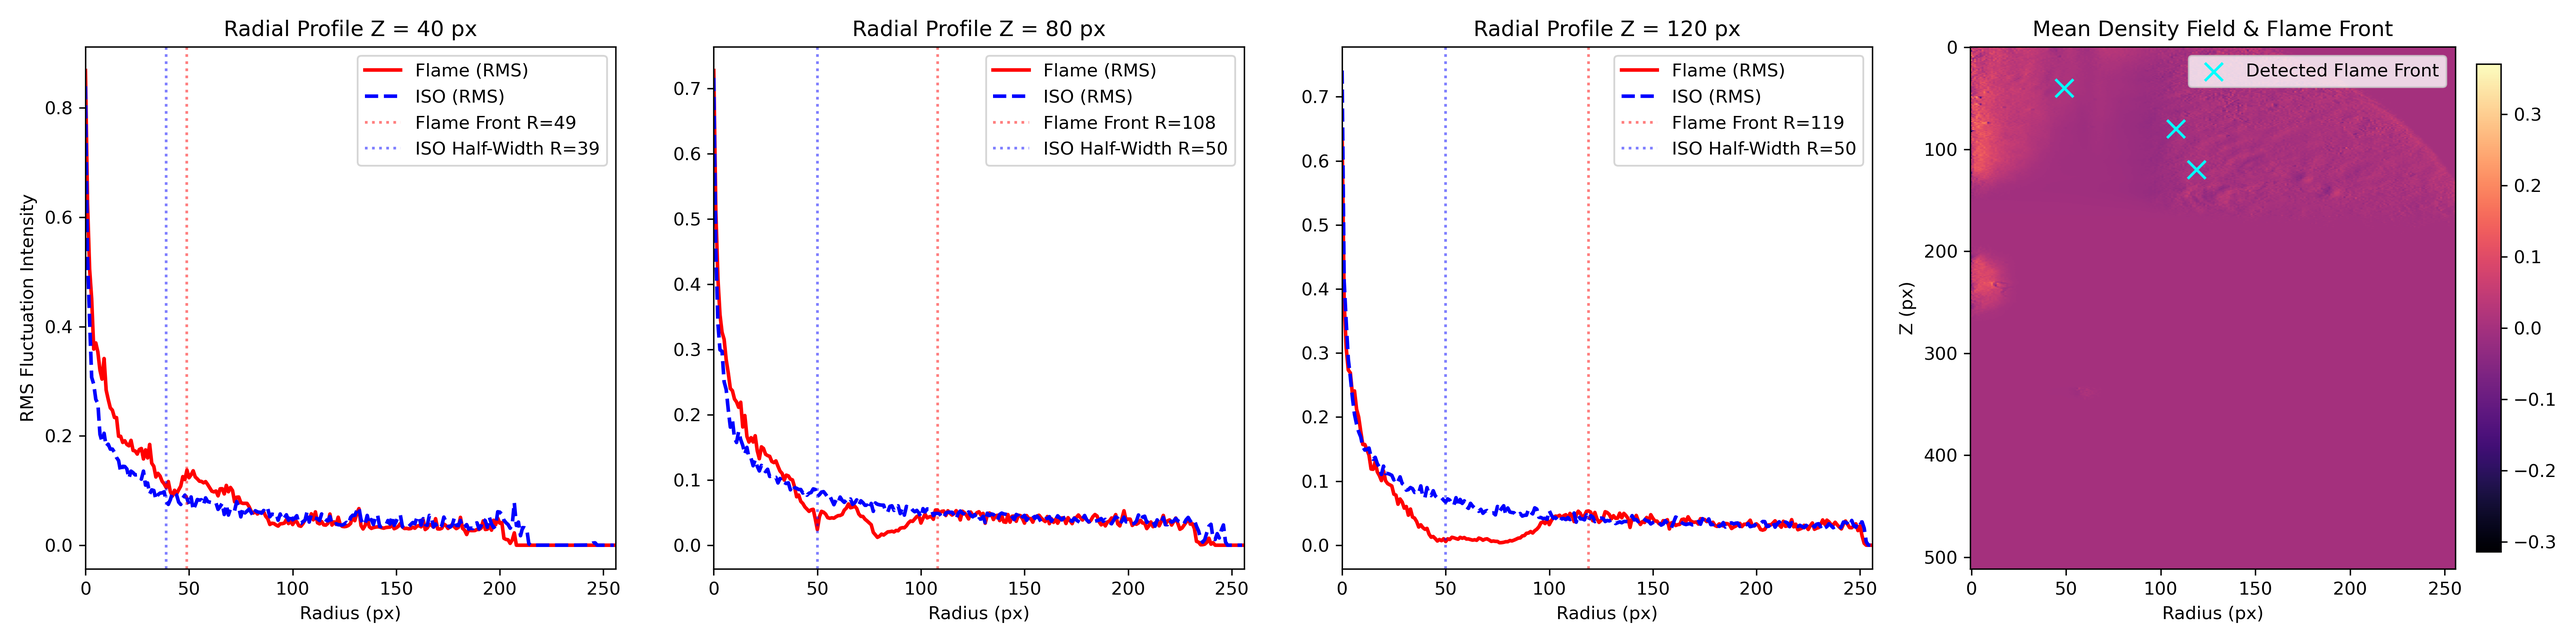
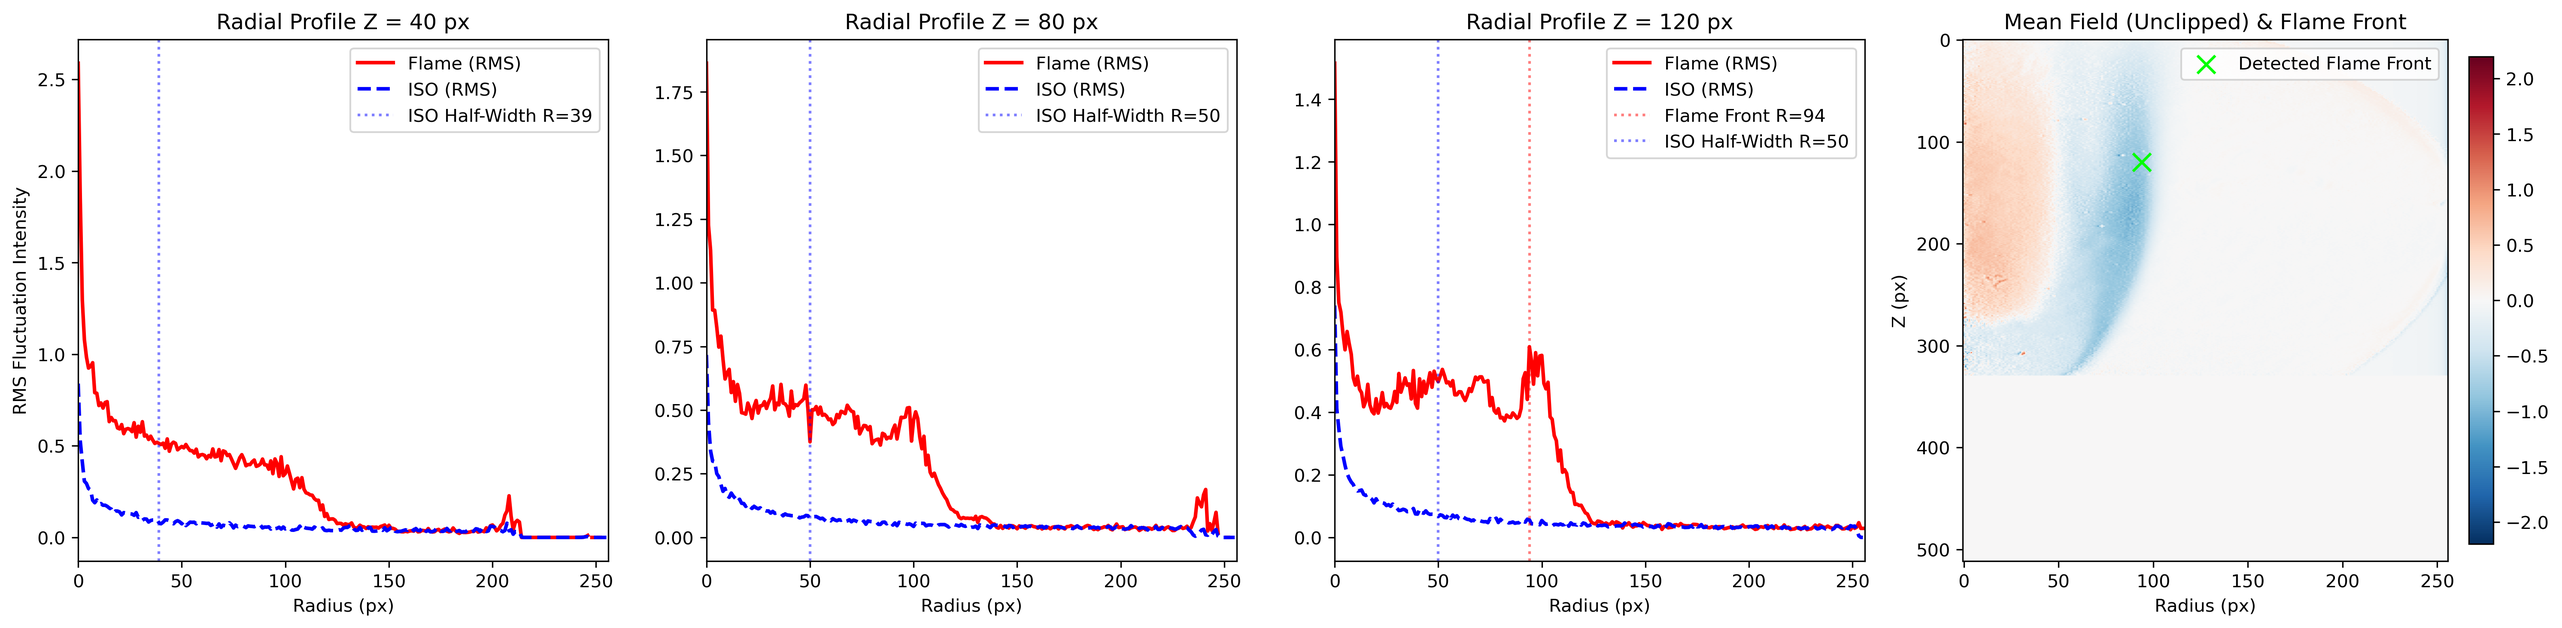
Redefinir a Frente de Chama

diff --git a/src/analysis_flame_front.py b/src/analysis_flame_front.py
@@ -3,6 +3,7 @@ import matplotlib.pyplot as plt
 import os
 from scipy.signal import find_peaks
 
+# 1. Configure paths and load non-truncated data (Unclipped)
 BASE_DIR = os.path.dirname(os.path.dirname(os.path.abspath(__file__)))
 DIR_PROCESSED = os.path.join(BASE_DIR, 'data', 'processed')
 
@@ -11,37 +12,47 @@ rms_iso = np.load(os.path.join(DIR_PROCESSED, 'rms_iso_ab1.npy'))
 media_chama = np.load(os.path.join(DIR_PROCESSED, 'media_ab1.npy'))
 
 alturas_z = [40, 80, 120]
-RAIO_MIN = 15
+RAIO_MIN = 15  # Ignore the mathematical artifact generated on the axis (R=0) by the Abel inversion
+
+# BLUFF-BODY MASK (Feedback Point 4):
+# The bluff-body at Z > 330 dominates the intensity, destroying the color scale.
+# We mask this zone by setting it to zero for visualization purposes.
+media_chama[330:, :] = 0
 
 fig, axs = plt.subplots(1, 4, figsize=(20, 5))
-
 picos_chama_r = []
 picos_chama_z = []
 
-print("--- FLAME FRONT & ISO SHEAR LAYER ---")
+print("--- FLAME FRONT & ISO SHEAR LAYER (UNCLIPPED) ---")
 for i, z in enumerate(alturas_z):
     raio = np.arange(rms_chama.shape[1])
     perfil_c = rms_chama[z, :]
     perfil_i = rms_iso[z, :]
     
-    # 1. Flame: Peak detection in the reaction zone
-    picos_c, props_c = find_peaks(perfil_c[RAIO_MIN:], prominence=0.02)
+    # 1. Flame: Peak Detection with Relative Threshold
+    # Instead of a fixed 0.02, we require the peak to be at least 20% of the local RMS signal
+    max_rms_c = np.max(perfil_c[RAIO_MIN:])
+    prominencia_dinamica = 0.20 * max_rms_c 
+    
+    picos_c, props_c = find_peaks(perfil_c[RAIO_MIN:], prominence=prominencia_dinamica)
     p_c = None
     if len(picos_c) > 0:
         p_c = picos_c[np.argmax(props_c['prominences'])] + RAIO_MIN
         picos_chama_r.append(p_c)
         picos_chama_z.append(z)
-        print(f"Z={z} px | Flame Peak: R={p_c} px")
+        print(f"Z={z} px | Flame Peak: R={p_c} px (RMS={perfil_c[p_c]:.3f} | Threshold={prominencia_dinamica:.3f})")
+    else:
+        print(f"Z={z} px | Flame Peak: Not Found (Noise/Lighting mismatch)")
 
-    # 2. ISO: Radial decay (Half-Width Decay)
-    # We assume the ISO reference value right after the axis cut (RAIO_MIN)
+    # 2. ISO: Radial decay (Half-Width Decay) - Unchanged (Physically robust)
     iso_ref_val = np.max(perfil_i[RAIO_MIN:50]) 
     iso_half = iso_ref_val / 2.0
     idx_half = np.where(perfil_i[RAIO_MIN:] < iso_half)[0]
     p_i = idx_half[0] + RAIO_MIN if len(idx_half) > 0 else None
-    if p_i: print(f"Z={z} px | ISO Half-Width: R={p_i} px")
+    if p_i: 
+        print(f"Z={z} px | ISO Half-Width: R={p_i} px")
 
-    # Plot (Labels in English)
+    # Draw the plots
     axs[i].plot(raio, perfil_c, 'r-', label='Flame (RMS)', linewidth=2)
     axs[i].plot(raio, perfil_i, 'b--', label='ISO (RMS)', linewidth=2)
     
@@ -52,14 +63,17 @@ for i, z in enumerate(alturas_z):
     
     axs[i].set_title(f'Radial Profile Z = {z} px')
     axs[i].set_xlabel('Radius (px)')
-    if i == 0: axs[i].set_ylabel('RMS Fluctuation Intensity')
+    if i == 0: 
+        axs[i].set_ylabel('RMS Fluctuation Intensity')
     axs[i].set_xlim(0, 256)
     axs[i].legend()
 
-# 3. Overlay on 2D Map
-im = axs[3].imshow(media_chama, cmap='magma', aspect='auto')
-axs[3].scatter(picos_chama_r, picos_chama_z, color='cyan', marker='x', s=100, label='Detected Flame Front')
-axs[3].set_title('Mean Density Field & Flame Front')
+# 3. Overlay on the 2D Mean Map (With divergent palette RdBu_r)
+# Since we now have real negative values, we use blue for negative and red for positive
+limite_cor = np.max(np.abs(media_chama))
+im = axs[3].imshow(media_chama, cmap='RdBu_r', aspect='auto', vmin=-limite_cor, vmax=limite_cor)
+axs[3].scatter(picos_chama_r, picos_chama_z, color='lime', marker='x', s=100, label='Detected Flame Front')
+axs[3].set_title('Mean Field (Unclipped) & Flame Front')
 axs[3].set_xlabel('Radius (px)')
 axs[3].set_ylabel('Z (px)')
 fig.colorbar(im, ax=axs[3], fraction=0.046, pad=0.04)
@@ -67,6 +81,6 @@ axs[3].legend()
 
 plt.tight_layout()
 caminho_fig = os.path.join(DIR_PROCESSED, 'flame_front_and_iso_decay.png')
-plt.savefig(caminho_fig, dpi=300)
-print(f"Figure generated for the report: {caminho_fig}")
+plt.savefig(caminho_fig, dpi=300, bbox_inches='tight')
+print(f"\nGenerated figure: {caminho_fig}")
 plt.show()

diff --git a/src/approach1.py b/src/approach1.py
@@ -54,7 +54,7 @@ for arquivo in arquivos_chama:
     soma_tomo_sq += (tomo_inst ** 2)
 
 media_ab1 = soma_tomo / n_chama
-rms_ab1 = np.sqrt((soma_tomo_sq / n_chama) - (media_ab1 ** 2))
+rms_ab1 = np.sqrt(np.maximum((soma_tomo_sq / n_chama) - (media_ab1 ** 2), 0))
 
 # ==========================================
 # 3. Execution of Approach 2 (Mean/RMS -> Tomo)
@@ -73,7 +73,7 @@ for arquivo in arquivos_chama:
     soma_raw_sq += (metade_dir ** 2)
 
 media_raw = soma_raw / n_chama
-rms_raw = np.sqrt((soma_raw_sq / n_chama) - (media_raw ** 2))
+rms_raw = np.sqrt(np.maximum((soma_raw_sq / n_chama) - (media_raw ** 2), 0))
 
 media_ab2 = aplicar_tomografia(media_raw, A_inv_precalculada)
 rms_ab2 = aplicar_tomografia(rms_raw, A_inv_precalculada)
